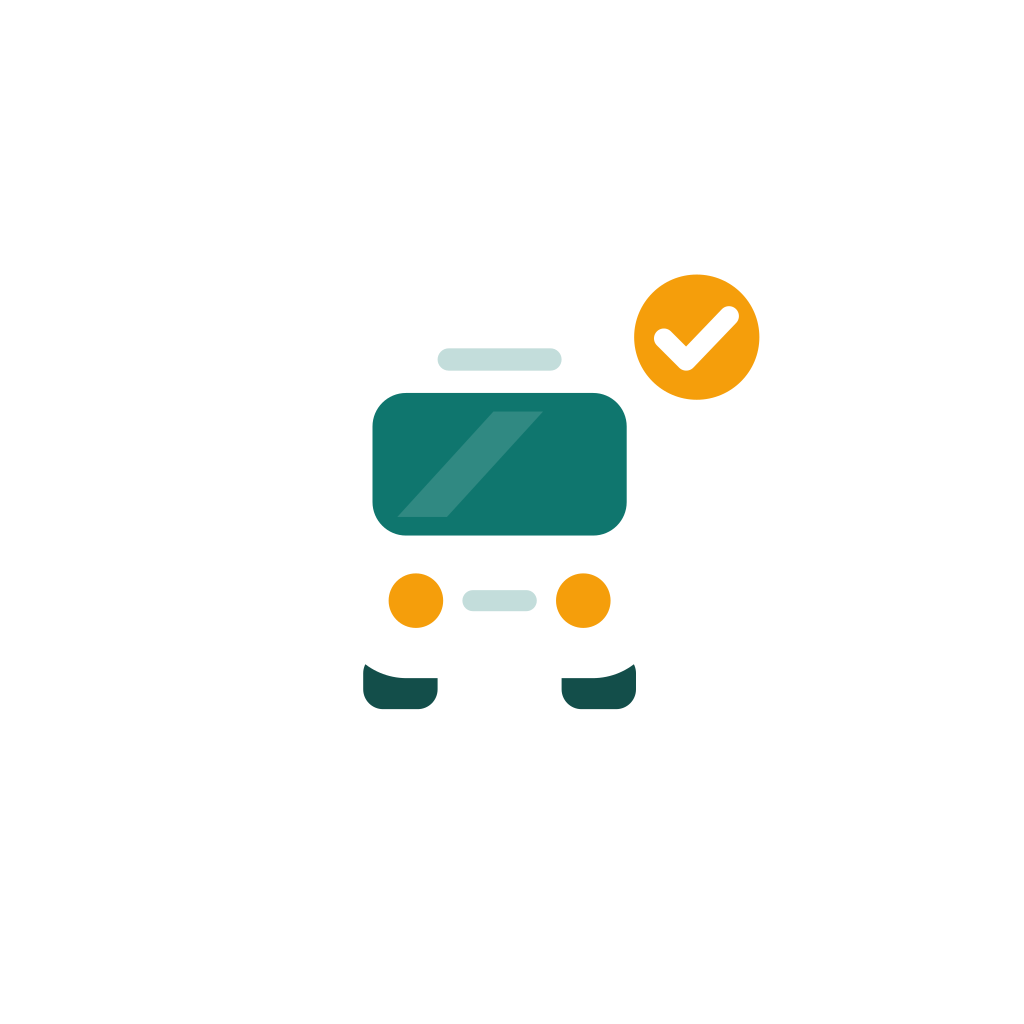
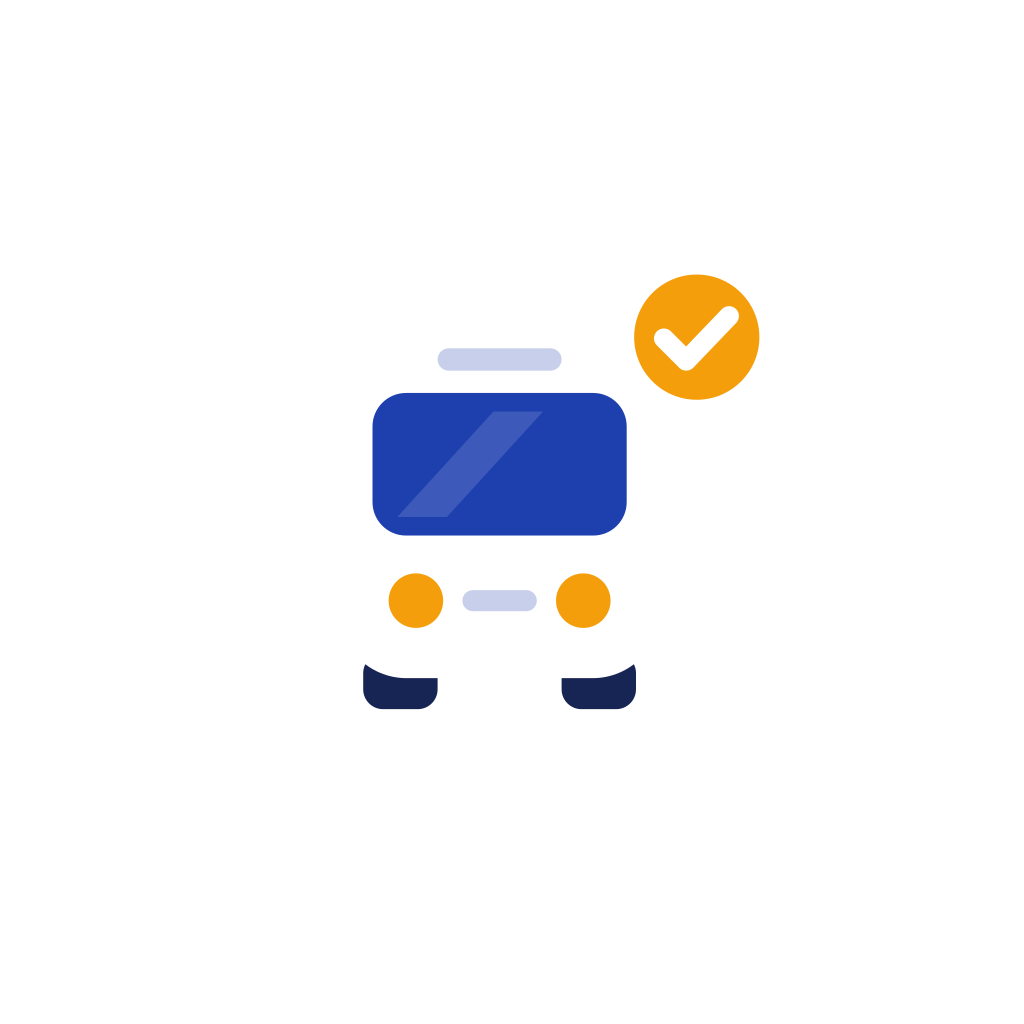
cambio de colores

Changed region(s): [[0.3438, 0.375, 0.625, 0.5312], [0.5312, 0.6562, 0.625, 0.7188], [0.3438, 0.6562, 0.4375, 0.7188]]

diff --git a/mobile/src/screens/AsignarTurnoScreen.js b/mobile/src/screens/AsignarTurnoScreen.js
@@ -4,6 +4,7 @@ import { ActivityIndicator, Pressable, ScrollView, StyleSheet, Text, View } from
 import AdminTabs from '../components/AdminTabs';
 import Button from '../components/Button';
 import Notice from '../components/Notice';
+import RouteBadge from '../components/RouteBadge';
 import { COLORS, FONT_SIZES, RADIUS, SHADOW, SPACING } from '../constants/theme';
 import * as storage from '../services/storage';
 
@@ -152,7 +153,8 @@ export default function AsignarTurnoScreen() {
             key={b.placa}
             icon="bus-outline"
             title={`Bus #${b.numero_interno}`}
-            subtitle={`${b.ruta} · ${b.placa}`}
+            subtitle={`Placa ${b.placa}`}
+            ruta={b.ruta}
             selected={busSel?.placa === b.placa}
             onPress={() => setBusSel(b)}
           />
@@ -210,8 +212,9 @@ export default function AsignarTurnoScreen() {
                 </View>
               </View>
               <Text style={styles.optionSub}>
-                Bus #{t.numero_interno} · {t.ruta} · {t.placa_bus}
+                Bus #{t.numero_interno} · {t.placa_bus}
               </Text>
+              <RouteBadge ruta={t.ruta} style={styles.routeBadge} />
               <Text style={styles.optionSub}>
                 {t.fecha} · {t.hora_inicio} - {t.hora_fin}
               </Text>
@@ -267,7 +270,7 @@ function StepTitle({ n, title, done }) {
   );
 }
 
-function Option({ icon, title, subtitle, selected, onPress }) {
+function Option({ icon, title, subtitle, ruta, selected, onPress }) {
   return (
     <Pressable
       onPress={onPress}
@@ -279,6 +282,7 @@ function Option({ icon, title, subtitle, selected, onPress }) {
       <View style={styles.flex}>
         <Text style={styles.optionTitle}>{title}</Text>
         <Text style={styles.optionSub}>{subtitle}</Text>
+        {ruta ? <RouteBadge ruta={ruta} style={styles.routeBadge} /> : null}
       </View>
       <Ionicons
         name={selected ? 'radio-button-on' : 'radio-button-off'}
@@ -337,6 +341,7 @@ const styles = StyleSheet.create({
     padding: SPACING.md,
   },
   emptyText: { fontSize: FONT_SIZES.sm, color: COLORS.textLight },
+  routeBadge: { marginTop: 6 },
   noticeGap: { marginTop: 0, marginBottom: SPACING.md },
   confirm: { marginBottom: SPACING.lg },
   turnoRow: {

diff --git a/mobile/src/screens/PayScreen.js b/mobile/src/screens/PayScreen.js
@@ -12,6 +12,7 @@ import {
 } from 'react-native';
 import Button from '../components/Button';
 import Notice from '../components/Notice';
+import RouteBadge from '../components/RouteBadge';
 import TextField from '../components/TextField';
 import { COLORS, FONT_SIZES, RADIUS, SHADOW, SPACING } from '../constants/theme';
 import { useAuth } from '../context/AuthContext';
@@ -126,7 +127,13 @@ export default function PayScreen({ navigation }) {
           <View style={styles.divider} />
 
           <ReceiptRow icon="bus-outline" label="Bus" value={`#${recibo.numero_interno} · ${recibo.placa_bus}`} />
-          <ReceiptRow icon="map-outline" label="Ruta" value={recibo.ruta} />
+          <View style={styles.receiptRow}>
+            <Ionicons name="map-outline" size={18} color={COLORS.textLight} />
+            <Text style={styles.receiptLabel}>Ruta</Text>
+            <View style={styles.flexEnd}>
+              <RouteBadge ruta={recibo.ruta} />
+            </View>
+          </View>
           <ReceiptRow icon="person-outline" label="Conductor" value={recibo.nombre_conductor} />
           <ReceiptRow icon="time-outline" label="Fecha" value={formatDate(recibo.fecha)} />
           <ReceiptRow icon="wallet-outline" label="Saldo restante" value={formatCurrency(recibo.balance)} />
@@ -226,6 +233,7 @@ const styles = StyleSheet.create({
   container: { flex: 1, backgroundColor: COLORS.background },
   scroll: { padding: SPACING.md, paddingBottom: SPACING.xl },
   flex: { flex: 1 },
+  flexEnd: { flex: 1, alignItems: 'flex-end' },
   mt: { marginTop: SPACING.md },
   noTop: { marginTop: 0 },
   pressed: { opacity: 0.85, transform: [{ scale: 0.98 }] },

diff --git a/mobile/src/components/RouteBadge.js b/mobile/src/components/RouteBadge.js
@@ -1,0 +1,49 @@
+import { StyleSheet, Text, View } from 'react-native';
+import { COLORS, FONT_SIZES, RADIUS, ROUTE_COLORS } from '../constants/theme';
+
+// Quita tildes, espacios y mayusculas: "Rápido Tambo" -> "rapidotambo"
+function normalizar(texto) {
+  return String(texto || '')
+    .normalize('NFD')
+    .replace(/[̀-ͯ]/g, '')
+    .replace(/[^a-z0-9]/gi, '')
+    .toLowerCase();
+}
+
+// Busca la empresa dentro del nombre de la ruta (ej. "Transpubenza - Ruta 5")
+export function getRouteColors(ruta) {
+  const n = normalizar(ruta);
+  const empresa = Object.keys(ROUTE_COLORS).find((k) => n.includes(k));
+  return empresa
+    ? ROUTE_COLORS[empresa]
+    : { bg: COLORS.primaryLight, fg: COLORS.primaryDark, dot: COLORS.accent };
+}
+
+// Etiqueta con los colores de la empresa de transporte, para reconocer la ruta de un vistazo
+export default function RouteBadge({ ruta, style }) {
+  if (!ruta) return null;
+  const c = getRouteColors(ruta);
+  return (
+    <View style={[styles.badge, { backgroundColor: c.bg }, style]}>
+      <View style={[styles.dot, { backgroundColor: c.dot }]} />
+      <Text style={[styles.text, { color: c.fg }]} numberOfLines={1}>
+        {ruta}
+      </Text>
+    </View>
+  );
+}
+
+const styles = StyleSheet.create({
+  badge: {
+    flexDirection: 'row',
+    alignItems: 'center',
+    alignSelf: 'flex-start',
+    gap: 6,
+    paddingHorizontal: 10,
+    paddingVertical: 3,
+    borderRadius: RADIUS.pill,
+    maxWidth: '100%',
+  },
+  dot: { width: 8, height: 8, borderRadius: 4 },
+  text: { fontSize: FONT_SIZES.xs, fontWeight: '700', flexShrink: 1 },
+});

diff --git a/mobile/src/constants/theme.js b/mobile/src/constants/theme.js
@@ -1,13 +1,15 @@
-// Paleta de PopaPay: verde azulado (teal) como color de marca y ambar como acento,
-// los mismos colores del logo (assets/images/popapay-logo.svg).
+// Paleta de PopaPay (psicologia del color para transporte + pagos):
+// - Azul: confianza y seguridad (bancos, billeteras, sistemas de transporte).
+// - Ambar: atencion y movimiento (buses, señalizacion); solo en acciones clave.
+// Son los mismos colores del logo (assets/images/popapay-logo.svg).
 export const COLORS = {
-  primary: '#0F766E',
-  primaryDark: '#115E59',
-  primaryLight: '#E6F4F1',
-  secondary: '#14B8A6',
+  primary: '#1E40AF',
+  primaryDark: '#1E3A8A',
+  primaryLight: '#EAF0FF',
+  secondary: '#3B82F6',
   accent: '#F59E0B',
   accentLight: '#FEF3C7',
-  background: '#F4F7F6',
+  background: '#F4F6FB',
   surface: '#FFFFFF',
   text: '#0F172A',
   textLight: '#64748B',
@@ -17,7 +19,15 @@ export const COLORS = {
   errorLight: '#FEE2E2',
   success: '#16A34A',
   successLight: '#DCFCE7',
-  onPrimaryMuted: '#CCEBE6',
+  onPrimaryMuted: '#C7D5FB',
+};
+
+// Colores de cada empresa de transporte, usados solo como etiqueta de la ruta
+// (ver src/components/RouteBadge.js). La marca PopaPay es neutral y sirve para todas.
+export const ROUTE_COLORS = {
+  transpubenza: { bg: '#1D4ED8', fg: '#FFFFFF', dot: '#FACC15' }, // azul y amarillo
+  rapidotambo: { bg: '#15803D', fg: '#FFFFFF', dot: '#FFFFFF' }, // verde y blanco
+  sotracauca: { bg: '#4B5563', fg: '#FFFFFF', dot: '#EF4444' }, // gris y rojo
 };
 
 export const SPACING = {

diff --git a/mobile/src/screens/ConductorHomeScreen.js b/mobile/src/screens/ConductorHomeScreen.js
@@ -1,6 +1,7 @@
 import { Ionicons } from '@expo/vector-icons';
 import React, { useEffect, useRef, useState } from 'react';
 import { ActivityIndicator, ScrollView, StyleSheet, Text, View } from 'react-native';
+import RouteBadge from '../components/RouteBadge';
 import { COLORS, FONT_SIZES, RADIUS, SHADOW, SPACING } from '../constants/theme';
 import { useAuth } from '../context/AuthContext';
 import * as storage from '../services/storage';
@@ -96,9 +97,8 @@ export default function ConductorHomeScreen() {
               </View>
               <View style={styles.flex}>
                 <Text style={styles.busName}>Bus #{turno.numero_interno}</Text>
-                <Text style={styles.busRoute}>
-                  {turno.ruta} · {turno.placa_bus}
-                </Text>
+                <Text style={styles.busRoute}>Placa {turno.placa_bus}</Text>
+                <RouteBadge ruta={turno.ruta} style={styles.routeBadge} />
               </View>
               <View style={styles.activePill}>
                 <View style={styles.activeDot} />
@@ -206,6 +206,7 @@ const styles = StyleSheet.create({
   },
   busName: { color: COLORS.surface, fontSize: FONT_SIZES.md, fontWeight: '700' },
   busRoute: { color: COLORS.onPrimaryMuted, fontSize: FONT_SIZES.sm },
+  routeBadge: { marginTop: 4 },
   activePill: {
     flexDirection: 'row',
     alignItems: 'center',

diff --git a/mobile/src/screens/BusRegisterScreen.js b/mobile/src/screens/BusRegisterScreen.js
@@ -5,6 +5,7 @@ import { ActivityIndicator, Image, ScrollView, StyleSheet, Text, View } from 're
 import AdminTabs from '../components/AdminTabs';
 import Button from '../components/Button';
 import Notice from '../components/Notice';
+import RouteBadge from '../components/RouteBadge';
 import TextField from '../components/TextField';
 import { COLORS, FONT_SIZES, RADIUS, SHADOW, SPACING } from '../constants/theme';
 import * as storage from '../services/storage';
@@ -144,7 +145,7 @@ export default function BusRegisterScreen() {
                 </View>
                 <View style={styles.busInfo}>
                   <Text style={styles.busName}>{b.placa}</Text>
-                  <Text style={styles.busRoute}>{b.ruta}</Text>
+                  <RouteBadge ruta={b.ruta} style={styles.routeBadge} />
                 </View>
                 <Button
                   small
@@ -234,5 +235,5 @@ const styles = StyleSheet.create({
   busNumber: { color: COLORS.primary, fontWeight: '800' },
   busInfo: { flex: 1 },
   busName: { fontSize: FONT_SIZES.sm, fontWeight: '700', color: COLORS.text },
-  busRoute: { fontSize: FONT_SIZES.xs, color: COLORS.textLight, marginTop: 2 },
+  routeBadge: { marginTop: 4 },
 });

diff --git a/mobile/src/components/TextField.js b/mobile/src/components/TextField.js
@@ -70,7 +70,7 @@ const styles = StyleSheet.create({
     paddingHorizontal: SPACING.md,
     minHeight: 52,
   },
-  inputFocused: { backgroundColor: '#FBFEFD' },
+  inputFocused: { backgroundColor: '#FBFCFF' },
   icon: { marginRight: SPACING.sm },
   input: {
     flex: 1,
